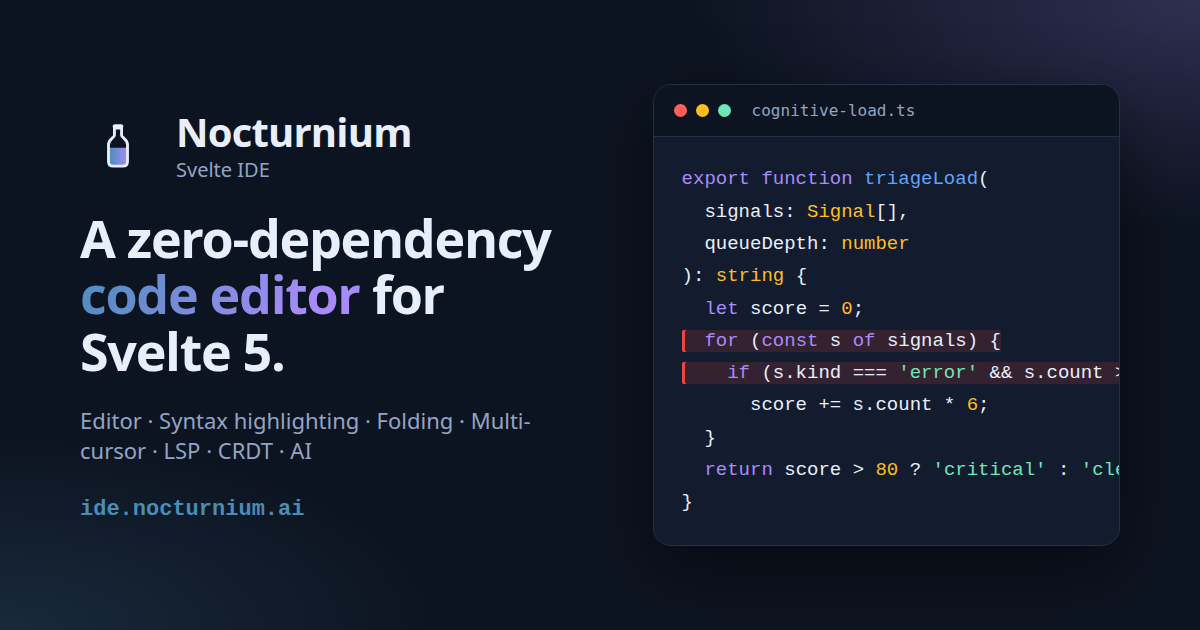
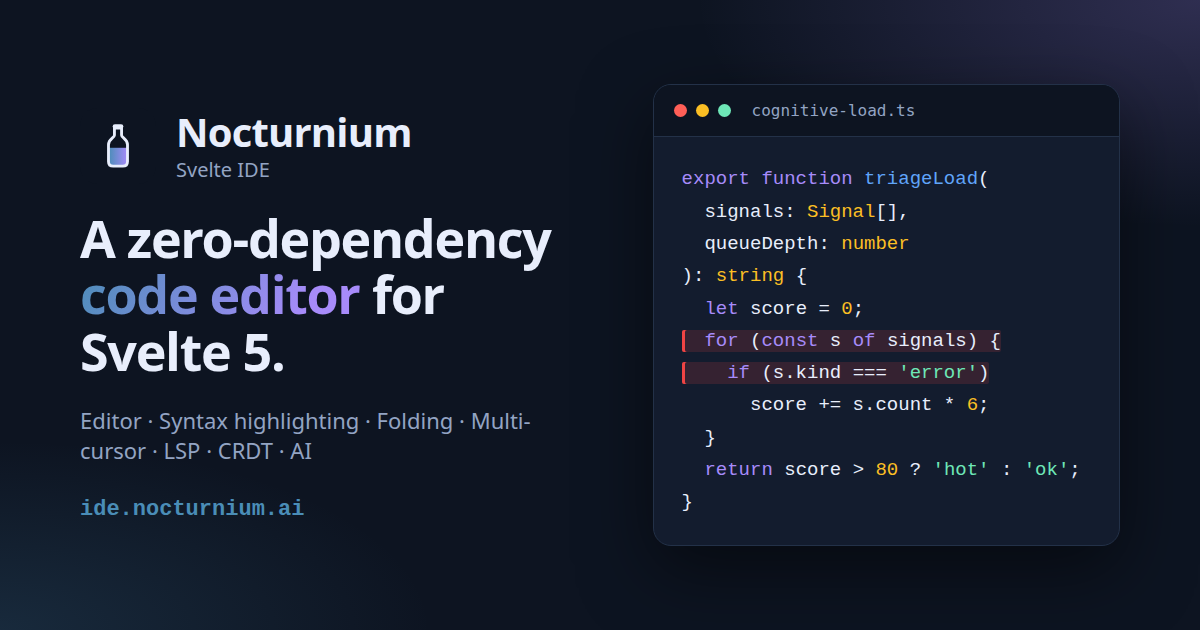
fix(site): keep OG card code lines complete (no right-edge clip)

Changed region(s): [[0.8017, 0.573, 0.9558, 0.6333], [0.7708, 0.7238, 0.925, 0.754]]

diff --git a/scripts/og-card.html b/scripts/og-card.html
@@ -221,10 +221,10 @@
 ): <span class="t">string</span> {
   <span class="k">let</span> score = <span class="t">0</span>;
 <span class="hot">  <span class="k">for</span> (<span class="k">const</span> s <span class="k">of</span> signals) {</span>
-<span class="hot">    <span class="k">if</span> (s.kind === <span class="s">'error'</span> && s.count > <span class="t">3</span>)</span>
+<span class="hot">    <span class="k">if</span> (s.kind === <span class="s">'error'</span>)</span>
       score += s.count * <span class="t">6</span>;
   }
-  <span class="k">return</span> score > <span class="t">80</span> ? <span class="s">'critical'</span> : <span class="s">'clear'</span>;
+  <span class="k">return</span> score > <span class="t">80</span> ? <span class="s">'hot'</span> : <span class="s">'ok'</span>;
 }</pre>
 		</div>
 	</body>
